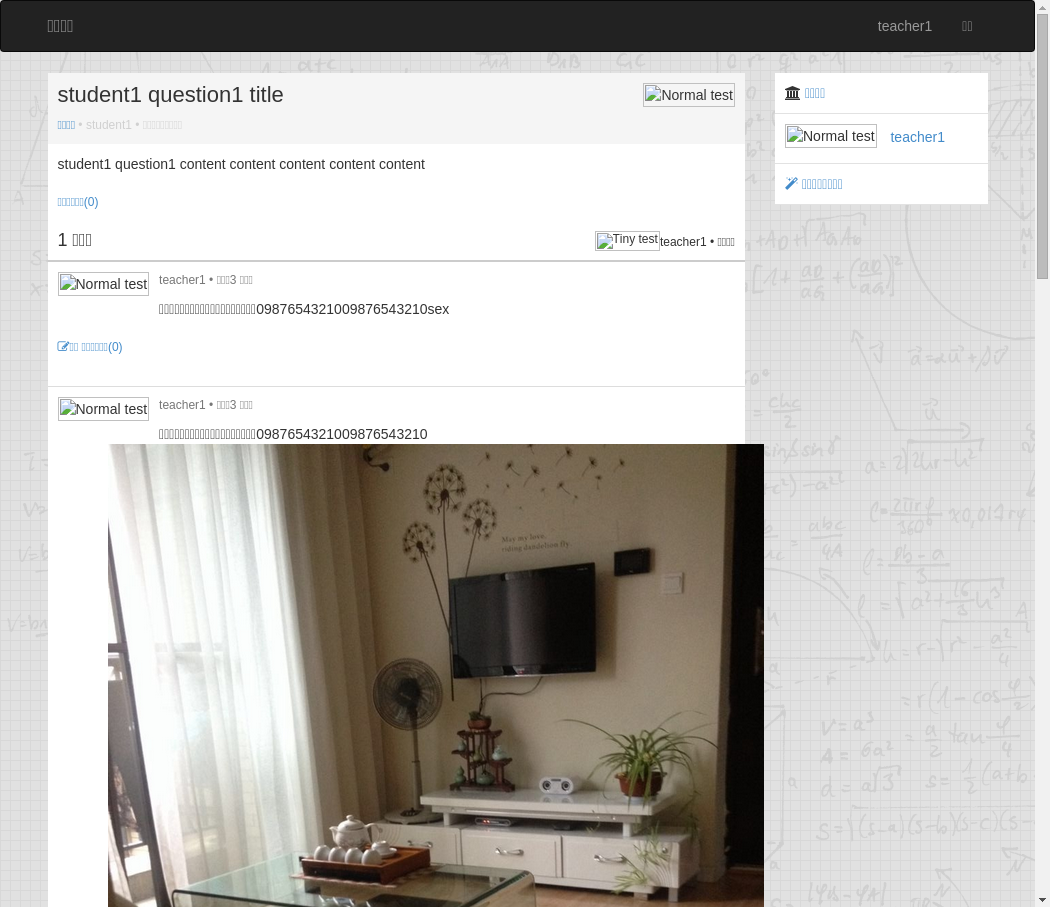
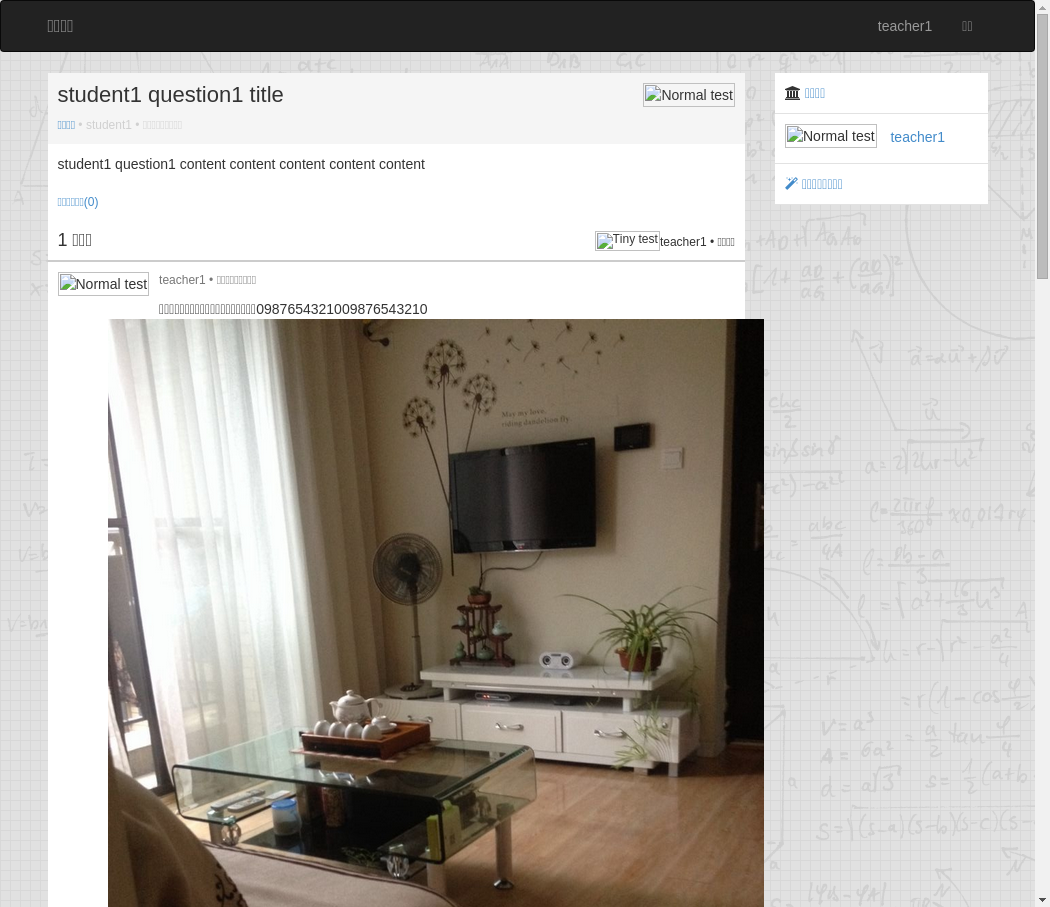
customized course topics show

Changed region(s): [[0.061, 0.3396, 0.7314, 1.0]]

diff --git a/app/assets/stylesheets/application.scss b/app/assets/stylesheets/application.scss
@@ -320,6 +320,14 @@ footer .copyright
   margin-left: 58px;
 }
 
+.qa_objects .qa_object_item .info a
+{
+  padding: 1px 5px;
+  color: #778087;
+  text-decoration: none;
+  background-color: #f5f5f5;
+}
+
 .qa_objects .qa_object_item .content
 {
   margin-left: 58px;

diff --git a/app/models/topic.rb b/app/models/topic.rb
@@ -2,6 +2,7 @@ class Topic < ActiveRecord::Base
 
   include QaToken
   include ContentValidate
+  include QaCommon
 
 
   belongs_to :author        ,:class_name => "User",:counter_cache => true,:inverse_of => :topics
@@ -23,11 +24,10 @@ class Topic < ActiveRecord::Base
 
   #,:dependent => :destroy
 
+  self.per_page = 10
 
-  scope :by_customized_course , lambda { |params|
-    where("topicable_type=? or  topicable_type =? or topicable_type=?",CustomizedTutorial.to_s,CustomizedCourse.to_s,Homework.to_s)
-    .order("created_at desc").paginate(page: params[:page],:per_page => 10)
-  }
+  scope :from_customized_course, lambda {where("customized_course_id is not null").order("created_at desc") }
+
   validates_presence_of :author,:topicable,:author
 
 

diff --git a/app/models/concerns/qa_common.rb b/app/models/concerns/qa_common.rb
@@ -2,8 +2,9 @@ module QaCommon
   extend ActiveSupport::Concern
   included do
 
-    scope :by_student ,lambda{|student| where(student_id:student.id).order(created_at: :desc)}
-    scope :by_teacher ,lambda{|teacher| where(teacher_id:teacher.id).order(created_at: :desc)}
+    scope :by_student     ,lambda{|student| where(student_id:student.id).order(created_at: :desc)}
+    scope :by_teacher     ,lambda{|teacher| where(teacher_id:teacher.id).order(created_at: :desc)}
+    scope :by_author_id   ,lambda{|author_id| where(author_id: author_id)}
     scope :by_customized_course_id,
           lambda{|customized_course_id| where(customized_course_id: customized_course_id)}
 

diff --git a/app/controllers/customized_courses_controller.rb b/app/controllers/customized_courses_controller.rb
@@ -35,7 +35,9 @@ class CustomizedCoursesController < ApplicationController
   end
 
   def topics
-    @topics = @customized_course.topics.order(created_at: :desc).paginate(page: params[:page])
+    # @topics = @customized_course.topics.order(created_at: :desc).paginate(page: params[:page])
+    @topics = Topic.all.by_customized_course_id(params[:id]).order(created_at: :desc).paginate(page: params[:page])
+
   end
 
   def homeworks

diff --git a/app/controllers/students_controller.rb b/app/controllers/students_controller.rb
@@ -51,7 +51,10 @@ class StudentsController < ApplicationController
   end
 
   def customized_tutorial_topics
-    @topics = Topic.all.where(author_id: @student.id).by_customized_course(params)
+    @topics = Topic.all.by_author_id(@student.id)
+                  .from_customized_course
+                  .order("created_at desc")
+                  .paginate(page: params[:page])
     render layout: 'student_home'
   end
 

diff --git a/app/controllers/teachers_controller.rb b/app/controllers/teachers_controller.rb
@@ -80,7 +80,10 @@ class TeachersController < ApplicationController
   end
 
   def customized_tutorial_topics
-    @topics = Topic.all.where(teacher_id: @teacher.id).by_customized_course(params)
+    @topics = Topic.all.by_teacher(@teacher)
+                  .from_customized_course
+                  .order("created_at desc")
+                  .paginate(page: params[:page])
     render layout: 'teacher_home'
   end
 
